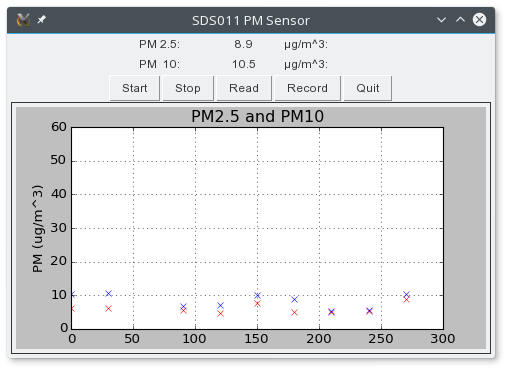
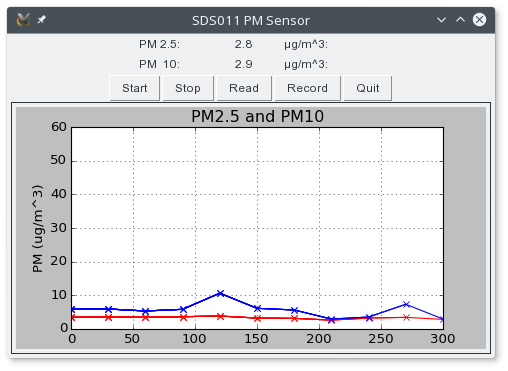
Connect data points with lines

diff --git a/sds011_pylab.py b/sds011_pylab.py
@@ -140,17 +140,23 @@ class App:
                     return data
 
         def sensor_live(self):
-            for x in range(0,330,30):
+            x = []
+            y1 = []
+            y2 = []
+            for i in range(0,330,30):
                 self.sensor_wake()
                 time.sleep(10)
-                y = self.sensor_read()
-                if y is not None:
+                pm = self.sensor_read()
+                if pm is not None:
+                    x.append(i)
+                    y1.append(pm[0])
+                    y2.append(pm[1])
                     with open('data.csv', 'ab') as csvfile:
                         file = csv.writer(csvfile, delimiter=';', quotechar='"', quoting=csv.QUOTE_MINIMAL)
-                        file.writerow([datetime.datetime.now().replace(microsecond=0).isoformat().replace('T', ' '), y[0], y[1]])
+                        file.writerow([datetime.datetime.now().replace(microsecond=0).isoformat().replace('T', ' '), pm[0], pm[1]])
                         csvfile.close()
-                    self.line1, = self.ax.plot(x,y[0],'r-x')
-                    self.line2, = self.ax.plot(x,y[1],'b-x')
+                    line1, = self.ax.plot(x,y1,'r-x')
+                    line2, = self.ax.plot(x,y2,'b-x')
                     self.canvas.draw()
                 self.sensor_sleep()
                 time.sleep(20)
@@ -160,7 +166,7 @@ class App:
 
 root = Tk()
 root.wm_title("SDS011 PM Sensor")
-#root.overrideredirect(True)
+root.overrideredirect(True)
 app = App(root)
 root.geometry("480x320+0+0")
 root.mainloop()

diff --git a/README.md b/README.md
@@ -27,6 +27,7 @@ Pi Zero W.
 ## Changelog
 
 2017-03-08	Initial version.
+2017-03-11	Interconnect data points. Credits go to the Raspi Code Jam Berlin
 
 ## Todo
 
